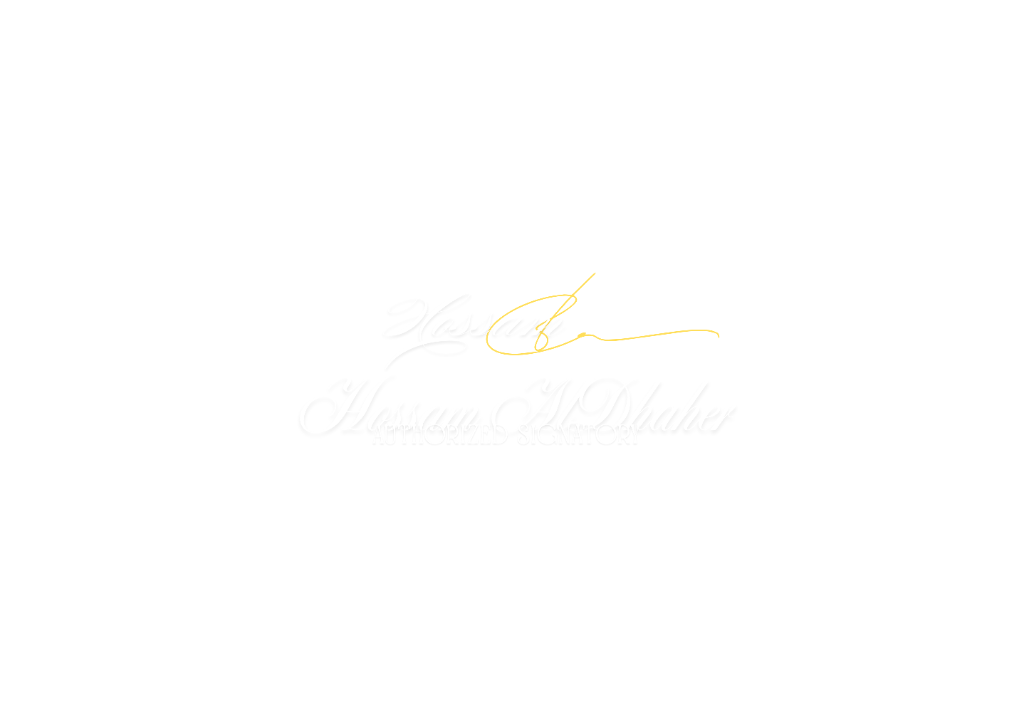
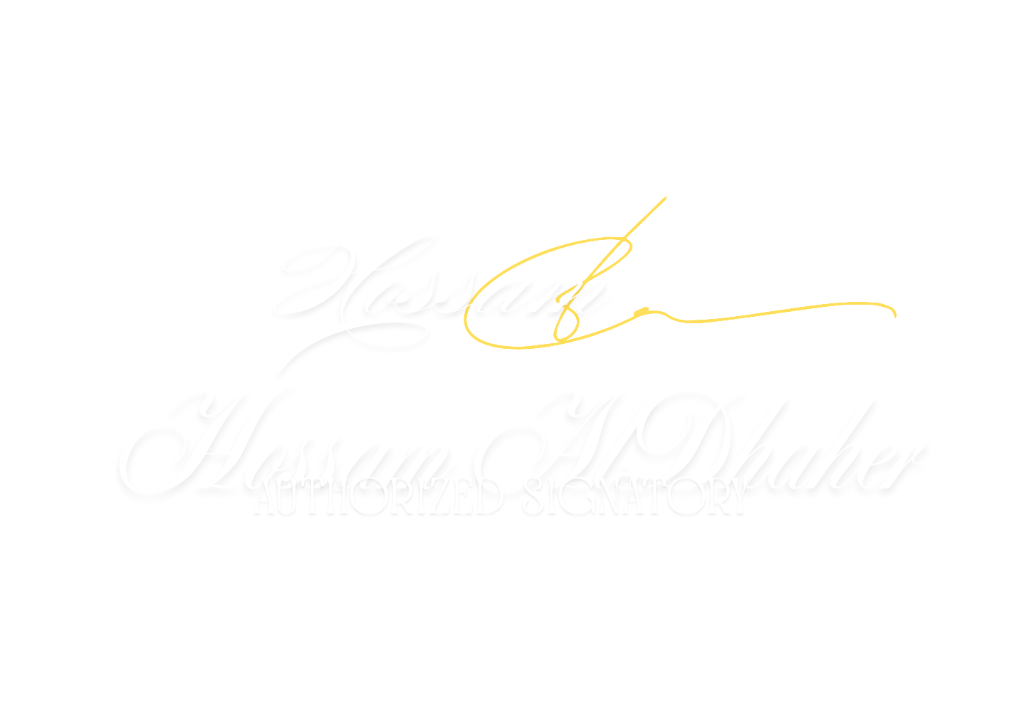
feat: implement high fidelity official HQL branding elements, updating seal format

diff --git a/src/components/patterns/CertificateDocument.tsx b/src/components/patterns/CertificateDocument.tsx
@@ -309,7 +309,7 @@ export function CertificateDocument({ data }: { data: CertificateData }) {
 
                             {/* Official Gold Seal Asset */}
                             <View style={styles.sealContainer}>
-                                <Image src="/images/hql/hql-seal.png" style={styles.officialSeal} />
+                                <Image src="/images/hql/hql-seal.jpg" style={styles.officialSeal} />
                             </View>
 
                             {/* Footer & Details */}
